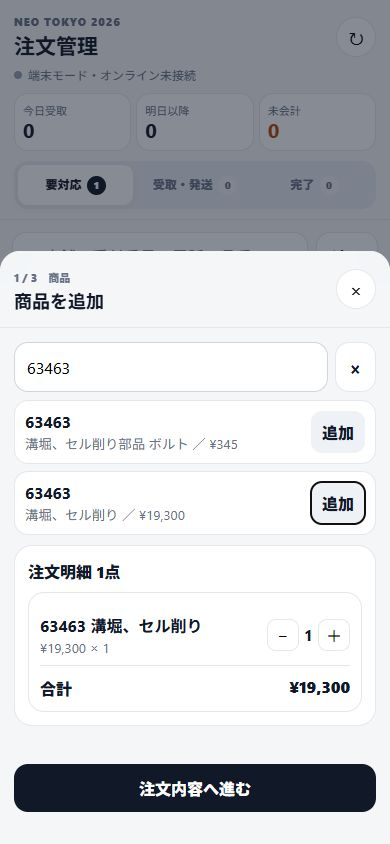
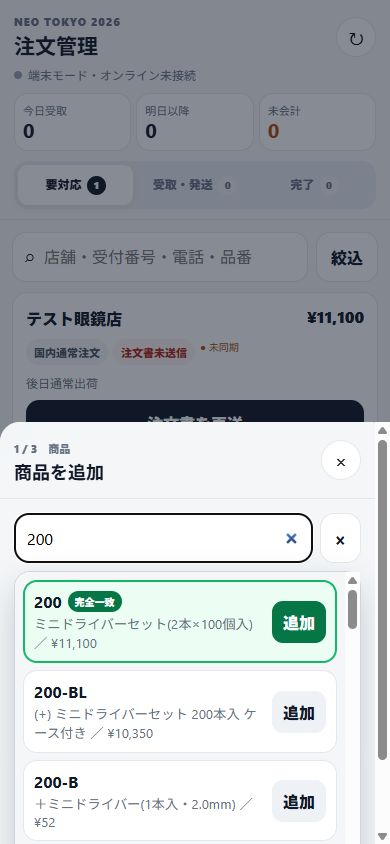
1

diff --git a/exhibition_order_production_preview.html b/exhibition_order_production_preview.html
@@ -14,8 +14,8 @@
 main{padding:12px}.toolbar{display:flex;gap:8px}.searchWrap{flex:1;display:flex;align-items:center;gap:8px;background:#fff;border:1px solid var(--line);border-radius:14px;padding:0 12px}.searchWrap input{border:0;outline:0;min-width:0;width:100%;height:48px;background:transparent}.secondary,.primary,.dangerBtn{border:0;border-radius:14px;min-height:48px;padding:0 14px;font-weight:900}.primary{background:var(--accent);color:#fff}.secondary{background:#fff;color:var(--ink);border:1px solid var(--line)}.dangerBtn{background:var(--dangerSoft);color:var(--danger);border:1px solid #fecdca}.compact{min-height:48px}.activeFilter{margin-top:8px;display:flex;gap:7px;align-items:center;color:var(--muted);font-size:12px}.activeFilter button{border:0;background:#fff;border-radius:99px;padding:6px 9px}.orders{display:grid;gap:9px;margin-top:10px}.empty{padding:62px 16px;text-align:center;color:var(--muted)}
 .orderCard{background:#fff;border:1px solid var(--line);border-radius:17px;padding:13px}.orderTop{display:flex;justify-content:space-between;gap:8px}.receiptNo{font-size:12px;font-weight:900;color:var(--accent)}.store{font-size:16px;font-weight:950}.amount{font-weight:950;white-space:nowrap}.chips{display:flex;flex-wrap:wrap;gap:5px;margin:9px 0}.chip{display:inline-flex;align-items:center;border-radius:99px;background:#f2f4f7;padding:5px 8px;font-size:11px;font-weight:850;color:#475467}.chip.ok{background:var(--okSoft);color:var(--ok)}.chip.warn{background:var(--warnSoft);color:var(--warn)}.chip.danger{background:var(--dangerSoft);color:var(--danger)}.cardNote{font-size:12px;color:var(--muted);margin-bottom:9px}.cardAction{width:100%;border:0;min-height:46px;border-radius:13px;background:#111827;color:#fff;font-weight:900}.cardAction.soft{background:#eef1f5;color:#111827}.syncBadge{font-size:10px;color:var(--warn)}.detailLink{display:block;margin:8px 0 0 auto}
 .newOrderBtn{position:fixed;z-index:25;left:max(14px,calc((100vw - 760px)/2 + 14px));right:max(14px,calc((100vw - 760px)/2 + 14px));bottom:max(14px,env(safe-area-inset-bottom));height:58px;border:0;border-radius:18px;background:#111827;color:#fff;font-weight:950;font-size:16px;box-shadow:0 12px 30px rgba(17,24,39,.24)}
-.sheet{position:fixed;inset:0;z-index:50;background:rgba(16,24,40,.5);display:flex;align-items:flex-end;justify-content:center}.sheetPanel{width:min(760px,100%);max-height:96vh;overflow:auto;background:var(--bg);border-radius:24px 24px 0 0;padding-bottom:calc(18px + env(safe-area-inset-bottom))}.sheetHead{position:sticky;top:0;z-index:4;background:rgba(244,246,248,.96);backdrop-filter:blur(12px);display:flex;justify-content:space-between;align-items:center;padding:14px;border-bottom:1px solid var(--line)}.sheetHead small{font-size:11px;color:var(--muted);font-weight:850}.sheetHead h2{font-size:18px;margin:1px 0 0}.step{padding:14px}.stepIntro{margin:0 0 12px;color:var(--muted);font-size:13px}.section{background:#fff;border:1px solid var(--line);border-radius:18px;padding:13px;margin-bottom:10px}.sectionTitle{font-weight:950;margin-bottom:9px}.field{margin-bottom:11px}.field:last-child{margin-bottom:0}.field label{display:block;font-size:12px;font-weight:900;margin:0 0 5px}.field input,.field select,.field textarea{width:100%;min-height:48px;background:#fff;border:1px solid #d0d5dd;border-radius:13px;padding:11px 12px;outline:0}.field textarea{min-height:72px;resize:vertical}.field input:focus,.field select:focus,.field textarea:focus{border-color:#667085;box-shadow:0 0 0 3px rgba(17,24,39,.07)}.two{display:grid;grid-template-columns:1fr 1fr;gap:8px}.choiceGrid{display:grid;grid-template-columns:1fr 1fr;gap:8px}.choice{min-height:80px;border:1px solid var(--line);border-radius:15px;background:#fff;padding:13px;text-align:left;color:var(--ink)}.choice b{display:block;margin-bottom:3px}.choice small{color:var(--muted);font-size:11px;line-height:1.4}.choice.on{border:2px solid #111827;padding:12px;background:#f8fafc}.choice.full{grid-column:1/-1}.seg{display:grid;grid-template-columns:repeat(2,1fr);gap:5px;padding:4px;border-radius:13px;background:#eef1f5}.seg button{border:0;background:transparent;min-height:42px;border-radius:10px;font-weight:850;color:var(--muted)}.seg button.on{background:#fff;color:#111827;box-shadow:0 1px 5px rgba(16,24,40,.06)}
-.productSearch{position:sticky;top:70px;z-index:2;background:var(--bg);padding-bottom:8px}.productSearchRow{display:flex;gap:7px}.productSearchRow input{flex:1;min-width:0;height:50px;border:1px solid #d0d5dd;border-radius:14px;padding:0 12px}.productResults{display:grid;gap:7px;max-height:44vh;overflow:auto}.productRow{display:grid;grid-template-columns:1fr auto;gap:8px;align-items:center;background:#fff;border:1px solid var(--line);border-radius:14px;padding:10px}.productRow b{display:block}.productRow small{display:block;color:var(--muted);margin-top:2px}.productRow.unavailable{background:#fafafa}.productRow.unavailable small{color:var(--warn);font-weight:800}.addBtn{border:0;border-radius:11px;background:#eef1f5;color:#111827;padding:9px 11px;font-weight:900}.cart{background:#fff;border:1px solid var(--line);border-radius:16px;padding:11px}.cartLine{display:grid;grid-template-columns:1fr auto;gap:8px;padding:9px 0;border-bottom:1px solid var(--line)}.cartLine:last-child{border-bottom:0}.cartLine small{display:block;color:var(--muted);margin-top:2px}.qty{display:flex;align-items:center;gap:5px}.qty button{width:32px;height:32px;border:1px solid var(--line);background:#fff;border-radius:9px}.totalRow{display:flex;justify-content:space-between;font-weight:950;padding-top:10px}.stickyActions{position:sticky;bottom:0;display:grid;grid-template-columns:1fr 1.6fr;gap:8px;padding:14px;background:linear-gradient(to top,var(--bg) 78%,rgba(244,246,248,0))}.stickyActions.one{grid-template-columns:1fr}.underActions{padding:0 14px 14px}.underActions button{width:100%}.quickDates{display:grid;grid-template-columns:repeat(3,1fr);gap:6px;margin-bottom:7px}.quickDates button{min-height:42px;border:1px solid var(--line);border-radius:11px;background:#fff;font-weight:850}.quickDates button.on{background:#111827;color:#fff}.errorBox{margin:10px 14px 0;padding:10px 12px;border-radius:12px;background:var(--dangerSoft);color:var(--danger);font-size:12px;font-weight:850}.hintBox{padding:10px 11px;border-radius:12px;background:#f8fafc;color:var(--muted);font-size:12px;line-height:1.5}.warnHint{background:var(--warnSoft);color:var(--warn);font-weight:800}.sendHint{background:var(--okSoft);color:var(--ok)}.topGap{margin-top:10px}.fullButton{width:100%;margin-bottom:8px}.success{text-align:center;padding:26px 14px}.successMark{width:60px;height:60px;border-radius:50%;display:grid;place-items:center;margin:0 auto 11px;background:var(--okSoft);color:var(--ok);font-size:30px}.successMark.pending{background:var(--warnSoft);color:var(--warn)}.success h3{margin:0 0 5px}.summary{background:#fff;border:1px solid var(--line);border-radius:16px;text-align:left;padding:12px;margin-top:14px}.summaryRow{display:flex;justify-content:space-between;gap:10px;padding:7px 0;border-bottom:1px solid var(--line);font-size:13px}.summaryRow:last-child{border-bottom:0}.summaryRow span{color:var(--muted)}.summaryRow.total{font-size:15px}.multiline{white-space:pre-wrap;text-align:right}.statusSent{color:var(--ok)}.statusPending{color:var(--danger)}
+.sheet{position:fixed;inset:0;z-index:50;background:rgba(16,24,40,.5);display:flex;align-items:flex-end;justify-content:center}.sheetPanel{width:min(760px,100%);max-height:96vh;overflow:auto;scrollbar-gutter:stable;background:var(--bg);border-radius:24px 24px 0 0;padding-bottom:calc(18px + env(safe-area-inset-bottom))}.sheetHead{position:sticky;top:0;z-index:4;background:rgba(244,246,248,.96);backdrop-filter:blur(12px);display:flex;justify-content:space-between;align-items:center;padding:14px;border-bottom:1px solid var(--line)}.sheetHead small{font-size:11px;color:var(--muted);font-weight:850}.sheetHead h2{font-size:18px;margin:1px 0 0}.step{padding:14px}.stepIntro{margin:0 0 12px;color:var(--muted);font-size:13px}.section{background:#fff;border:1px solid var(--line);border-radius:18px;padding:13px;margin-bottom:10px}.sectionTitle{font-weight:950;margin-bottom:9px}.field{margin-bottom:11px}.field:last-child{margin-bottom:0}.field label{display:block;font-size:12px;font-weight:900;margin:0 0 5px}.field input,.field select,.field textarea{width:100%;min-height:48px;background:#fff;border:1px solid #d0d5dd;border-radius:13px;padding:11px 12px;outline:0}.field textarea{min-height:72px;resize:vertical}.field input:focus,.field select:focus,.field textarea:focus{border-color:#667085;box-shadow:0 0 0 3px rgba(17,24,39,.07)}.two{display:grid;grid-template-columns:1fr 1fr;gap:8px}.choiceGrid{display:grid;grid-template-columns:1fr 1fr;gap:8px}.choice{min-height:80px;border:1px solid var(--line);border-radius:15px;background:#fff;padding:13px;text-align:left;color:var(--ink)}.choice b{display:block;margin-bottom:3px}.choice small{color:var(--muted);font-size:11px;line-height:1.4}.choice.on{border:2px solid #111827;padding:12px;background:#f8fafc}.choice.full{grid-column:1/-1}.seg{display:grid;grid-template-columns:repeat(2,1fr);gap:5px;padding:4px;border-radius:13px;background:#eef1f5}.seg button{border:0;background:transparent;min-height:42px;border-radius:10px;font-weight:850;color:var(--muted)}.seg button.on{background:#fff;color:#111827;box-shadow:0 1px 5px rgba(16,24,40,.06)}
+.productSearch{position:sticky;top:70px;z-index:8;background:var(--bg);padding-bottom:8px}.productSearchRow{display:flex;gap:7px}.productSearchRow input{flex:1;min-width:0;height:50px;border:1px solid #d0d5dd;border-radius:14px;padding:0 12px}.productResults{display:none;position:absolute;top:58px;left:0;right:0;gap:7px;max-height:min(44vh,360px);overflow:auto;background:var(--bg);border:1px solid #d0d5dd;border-radius:16px;padding:8px;box-shadow:0 16px 34px rgba(16,24,40,.2);overscroll-behavior:contain}.productResults.open{display:grid}.productResults .empty{background:#fff;border-radius:12px;padding:24px 12px}.productCartSection{margin-top:2px}.productRow{display:grid;grid-template-columns:1fr auto;gap:8px;align-items:center;background:#fff;border:1px solid var(--line);border-radius:14px;padding:10px}.productRow b{display:block}.productCodeLine{display:flex;align-items:center;flex-wrap:wrap;gap:6px}.matchBadge{display:inline-flex;align-items:center;min-height:21px;padding:2px 7px;border-radius:99px;background:#067647;color:#fff;font-size:10px;font-weight:950;line-height:1}.productRow small{display:block;color:var(--muted);margin-top:2px}.productRow.exact{background:#ecfdf3;border:2px solid #12b76a;padding:9px}.productRow.exact .addBtn{background:#067647;color:#fff}.productRow.unavailable{background:#fafafa}.productRow.unavailable small{color:var(--warn);font-weight:800}.addBtn{border:0;border-radius:11px;background:#eef1f5;color:#111827;padding:9px 11px;font-weight:900}.cart{background:#fff;border:1px solid var(--line);border-radius:16px;padding:11px}.cartLine{display:grid;grid-template-columns:1fr auto;gap:8px;padding:9px 0;border-bottom:1px solid var(--line)}.cartLine:last-child{border-bottom:0}.cartLine small{display:block;color:var(--muted);margin-top:2px}.qty{display:flex;align-items:center;gap:5px}.qty button{width:32px;height:32px;border:1px solid var(--line);background:#fff;border-radius:9px}.totalRow{display:flex;justify-content:space-between;font-weight:950;padding-top:10px}.stickyActions{position:sticky;bottom:0;display:grid;grid-template-columns:1fr 1.6fr;gap:8px;padding:14px;background:linear-gradient(to top,var(--bg) 78%,rgba(244,246,248,0))}.stickyActions.one{grid-template-columns:1fr}.underActions{padding:0 14px 14px}.underActions button{width:100%}.quickDates{display:grid;grid-template-columns:repeat(3,1fr);gap:6px;margin-bottom:7px}.quickDates button{min-height:42px;border:1px solid var(--line);border-radius:11px;background:#fff;font-weight:850}.quickDates button.on{background:#111827;color:#fff}.errorBox{margin:10px 14px 0;padding:10px 12px;border-radius:12px;background:var(--dangerSoft);color:var(--danger);font-size:12px;font-weight:850}.hintBox{padding:10px 11px;border-radius:12px;background:#f8fafc;color:var(--muted);font-size:12px;line-height:1.5}.warnHint{background:var(--warnSoft);color:var(--warn);font-weight:800}.sendHint{background:var(--okSoft);color:var(--ok)}.topGap{margin-top:10px}.fullButton{width:100%;margin-bottom:8px}.success{text-align:center;padding:26px 14px}.successMark{width:60px;height:60px;border-radius:50%;display:grid;place-items:center;margin:0 auto 11px;background:var(--okSoft);color:var(--ok);font-size:30px}.successMark.pending{background:var(--warnSoft);color:var(--warn)}.success h3{margin:0 0 5px}.summary{background:#fff;border:1px solid var(--line);border-radius:16px;text-align:left;padding:12px;margin-top:14px}.summaryRow{display:flex;justify-content:space-between;gap:10px;padding:7px 0;border-bottom:1px solid var(--line);font-size:13px}.summaryRow:last-child{border-bottom:0}.summaryRow span{color:var(--muted)}.summaryRow.total{font-size:15px}.multiline{white-space:pre-wrap;text-align:right}.statusSent{color:var(--ok)}.statusPending{color:var(--danger)}
 .login{min-height:100vh;display:grid;place-items:center;padding:18px}.loginBox{width:min(390px,100%);background:#fff;border:1px solid var(--line);border-radius:22px;padding:22px;box-shadow:var(--shadow)}.brandMark{width:44px;height:44px;border-radius:13px;display:grid;place-items:center;background:#111827;color:#fff;font-weight:950}.loginBox h1{margin-top:13px}.loginBox p{color:var(--muted);margin-top:3px}.loginBox label{display:block;font-size:12px;font-weight:850;margin-top:12px}.loginBox input{width:100%;height:48px;border:1px solid #d0d5dd;border-radius:13px;padding:0 12px;margin-top:5px}.loginBox button{width:100%;margin-top:10px}.errorText{color:var(--danger);font-size:12px;margin-top:9px}.toast{position:fixed;z-index:100;left:50%;bottom:88px;transform:translate(-50%,18px);background:#111827;color:#fff;border-radius:99px;padding:9px 13px;font-size:12px;font-weight:850;opacity:0;pointer-events:none;transition:.18s}.toast.show{opacity:1;transform:translate(-50%,0)}
 .printArea{display:none}.printSheet{font-family:"Noto Sans JP",sans-serif;color:#111}.printSheet h2{margin:0 0 3px}.printTitle{display:flex;justify-content:space-between;gap:20px;align-items:flex-start;margin-bottom:16px}.printTitle small{color:#555}.printNo{text-align:right}.printMeta{display:grid;grid-template-columns:1fr 1fr;gap:8px;margin-bottom:14px}.printMeta>div{border-bottom:1px solid #bbb;padding:5px 0}.printItems{width:100%;border-collapse:collapse}.printItems th,.printItems td{border:1px solid #888;padding:7px;text-align:left}.printItems th:nth-child(2),.printItems td:nth-child(2),.printItems th:nth-child(3),.printItems td:nth-child(3),.printItems th:nth-child(4),.printItems td:nth-child(4){text-align:right}.printNotes{margin-top:14px;border:1px solid #aaa;padding:10px;white-space:pre-wrap}.printFoot{margin-top:16px;font-size:11px;color:#555}
 @media(max-width:430px){.choiceGrid,.two{grid-template-columns:1fr}.choice.full{grid-column:auto}.sheetPanel{border-radius:20px 20px 0 0}.metrics{gap:5px}.metric{padding:8px}.newOrderBtn{left:12px;right:12px}.orderCard{border-radius:15px}.stickyActions{grid-template-columns:1fr 1.35fr}}
@@ -422,17 +422,18 @@ function clearError(){$('sheetError').classList.add('hidden');$('sheetError').te
 function freshDraft(){return{stage:'products',type:null,handoff:null,customerRegion:'domestic',items:[],store:'',phone:'',customer:'',account:'',staff:state.staff?.display_name||'',paymentMethod:PAYMENT.CREDIT,paid:false,delivered:false,shipped:false,prepared:PREP.NONE,pickupDate:dateOffset(1),notes:''}}
 function startOrder(){state.draft=freshDraft();openSheet('新しい注文','1 / 3');renderDraft()}
 function renderDraft(){clearError();if(!state.draft)return;const d=state.draft;if(d.stage==='products')renderProductStep(d);else if(d.stage==='type')renderTypeStep(d);else if(d.stage==='info')renderInfoStep(d);else if(d.stage==='success')renderSuccess(d)}
-function renderProductStep(d){$('stepLabel').textContent='1 / 3　商品';$('sheetTitle').textContent='商品を追加';$('sheetBody').innerHTML=`<div class="step"><div class="productSearch"><div class="productSearchRow"><input id="productQ" type="search" inputmode="search" placeholder="品番・商品名"><button id="clearPQ" class="secondary">×</button></div></div><div id="productResults" class="productResults"><div class="empty">品番・商品名を入力してください。</div></div><div class="section" style="margin-top:10px"><div class="sectionTitle">注文明細 <span id="cartCount">${d.items.reduce((s,i)=>s+i.qty,0)}点</span></div><div id="cartLines" class="cart"></div></div></div><div class="stickyActions one"><button id="toType" class="primary">注文内容へ進む</button></div>`;const q=$('productQ');q.oninput=()=>renderProductResults(d,q.value);$('clearPQ').onclick=()=>{q.value='';renderProductResults(d,'')};$('toType').onclick=()=>{if(!d.items.length)return showError('商品を1点以上追加してください。');d.stage='type';renderDraft()};renderCart(d)}
+function renderProductStep(d){$('stepLabel').textContent='1 / 3　商品';$('sheetTitle').textContent='商品を追加';$('sheetBody').innerHTML=`<div class="step"><div class="productSearch"><div class="productSearchRow"><input id="productQ" type="search" inputmode="search" placeholder="品番・商品名" autocomplete="off"><button id="clearPQ" class="secondary" aria-label="検索をクリア">×</button></div><div id="productResults" class="productResults" role="listbox"></div></div><div class="section productCartSection"><div class="sectionTitle">注文明細 <span id="cartCount">${d.items.reduce((s,i)=>s+i.qty,0)}点</span></div><div id="cartLines" class="cart"></div></div></div><div class="stickyActions one"><button id="toType" class="primary">注文内容へ進む</button></div>`;const q=$('productQ');q.oninput=()=>renderProductResults(d,q.value);$('clearPQ').onclick=()=>{q.value='';renderProductResults(d,'');q.focus()};$('toType').onclick=()=>{if(!d.items.length)return showError('商品を1点以上追加してください。');d.stage='type';renderDraft()};renderCart(d)}
 function renderProductResults(d,query){
   const q=String(query||'').trim().toLowerCase(),wrap=$('productResults');
-  if(!q){wrap.innerHTML='<div class="empty">品番・商品名を入力してください。</div>';return}
+  if(!q){wrap.innerHTML='';wrap.classList.remove('open');return}
   const list=state.products.map((product,index)=>({product,index,rank:productRank(product,q)})).filter(result=>result.rank<9).sort((a,b)=>a.rank-b.rank||a.index-b.index).slice(0,35);
-  wrap.innerHTML=list.length?list.map(({product})=>`<div class="productRow ${product.orderable?'':'unavailable'}"><div><b>${esc(product.code)}</b><small>${esc(product.name)} ／ ${product.orderable?yen(product.price):'価格未定・注文不可'}</small></div><button class="addBtn" data-product-id="${esc(product.productId)}" ${product.orderable?'':'disabled'}>${product.orderable?'追加':'追加不可'}</button></div>`).join(''):'<div class="empty">該当商品がありません。</div>';
+  wrap.classList.add('open');
+  wrap.innerHTML=list.length?list.map(({product,rank})=>`<div class="productRow ${rank===0?'exact':''} ${product.orderable?'':'unavailable'}" role="option"><div><div class="productCodeLine"><b>${esc(product.code)}</b>${rank===0?'<span class="matchBadge">完全一致</span>':''}</div><small>${esc(product.name)} ／ ${product.orderable?yen(product.price):'価格未定・注文不可'}</small></div><button class="addBtn" data-product-id="${esc(product.productId)}" ${product.orderable?'':'disabled'}>${product.orderable?'追加':'追加不可'}</button></div>`).join(''):'<div class="empty">該当商品がありません。</div>';
   wrap.querySelectorAll('[data-product-id]').forEach(button=>button.onclick=()=>{
     const product=state.products.find(item=>item.productId===button.dataset.productId);if(!product?.orderable)return;
     const existing=d.items.find(item=>item.productId===product.productId);
     if(existing)existing.qty++;else d.items.push({...product,lineId:`line-${Date.now().toString(36)}-${Math.random().toString(36).slice(2,6)}`,qty:1});
-    renderCart(d);toast(`${product.code} を追加`);
+    renderCart(d);$('productQ').value='';renderProductResults(d,'');toast(`${product.code} を追加`);
   });
 }
 function productRank(p,q){const c=String(p.code).toLowerCase(),n=String(p.name).toLowerCase();const qn=q.replace(/-/g,''),cn=c.replace(/-/g,'');if(c===q||cn===qn)return 0;if(c.startsWith(q)||cn.startsWith(qn))return 1;if(c.includes(q)||cn.includes(qn))return 2;if(n.includes(q))return 3;return 9}

diff --git a/styles.css b/styles.css
@@ -6,8 +6,8 @@
 main{padding:12px}.toolbar{display:flex;gap:8px}.searchWrap{flex:1;display:flex;align-items:center;gap:8px;background:#fff;border:1px solid var(--line);border-radius:14px;padding:0 12px}.searchWrap input{border:0;outline:0;min-width:0;width:100%;height:48px;background:transparent}.secondary,.primary,.dangerBtn{border:0;border-radius:14px;min-height:48px;padding:0 14px;font-weight:900}.primary{background:var(--accent);color:#fff}.secondary{background:#fff;color:var(--ink);border:1px solid var(--line)}.dangerBtn{background:var(--dangerSoft);color:var(--danger);border:1px solid #fecdca}.compact{min-height:48px}.activeFilter{margin-top:8px;display:flex;gap:7px;align-items:center;color:var(--muted);font-size:12px}.activeFilter button{border:0;background:#fff;border-radius:99px;padding:6px 9px}.orders{display:grid;gap:9px;margin-top:10px}.empty{padding:62px 16px;text-align:center;color:var(--muted)}
 .orderCard{background:#fff;border:1px solid var(--line);border-radius:17px;padding:13px}.orderTop{display:flex;justify-content:space-between;gap:8px}.receiptNo{font-size:12px;font-weight:900;color:var(--accent)}.store{font-size:16px;font-weight:950}.amount{font-weight:950;white-space:nowrap}.chips{display:flex;flex-wrap:wrap;gap:5px;margin:9px 0}.chip{display:inline-flex;align-items:center;border-radius:99px;background:#f2f4f7;padding:5px 8px;font-size:11px;font-weight:850;color:#475467}.chip.ok{background:var(--okSoft);color:var(--ok)}.chip.warn{background:var(--warnSoft);color:var(--warn)}.chip.danger{background:var(--dangerSoft);color:var(--danger)}.cardNote{font-size:12px;color:var(--muted);margin-bottom:9px}.cardAction{width:100%;border:0;min-height:46px;border-radius:13px;background:#111827;color:#fff;font-weight:900}.cardAction.soft{background:#eef1f5;color:#111827}.syncBadge{font-size:10px;color:var(--warn)}.detailLink{display:block;margin:8px 0 0 auto}
 .newOrderBtn{position:fixed;z-index:25;left:max(14px,calc((100vw - 760px)/2 + 14px));right:max(14px,calc((100vw - 760px)/2 + 14px));bottom:max(14px,env(safe-area-inset-bottom));height:58px;border:0;border-radius:18px;background:#111827;color:#fff;font-weight:950;font-size:16px;box-shadow:0 12px 30px rgba(17,24,39,.24)}
-.sheet{position:fixed;inset:0;z-index:50;background:rgba(16,24,40,.5);display:flex;align-items:flex-end;justify-content:center}.sheetPanel{width:min(760px,100%);max-height:96vh;overflow:auto;background:var(--bg);border-radius:24px 24px 0 0;padding-bottom:calc(18px + env(safe-area-inset-bottom))}.sheetHead{position:sticky;top:0;z-index:4;background:rgba(244,246,248,.96);backdrop-filter:blur(12px);display:flex;justify-content:space-between;align-items:center;padding:14px;border-bottom:1px solid var(--line)}.sheetHead small{font-size:11px;color:var(--muted);font-weight:850}.sheetHead h2{font-size:18px;margin:1px 0 0}.step{padding:14px}.stepIntro{margin:0 0 12px;color:var(--muted);font-size:13px}.section{background:#fff;border:1px solid var(--line);border-radius:18px;padding:13px;margin-bottom:10px}.sectionTitle{font-weight:950;margin-bottom:9px}.field{margin-bottom:11px}.field:last-child{margin-bottom:0}.field label{display:block;font-size:12px;font-weight:900;margin:0 0 5px}.field input,.field select,.field textarea{width:100%;min-height:48px;background:#fff;border:1px solid #d0d5dd;border-radius:13px;padding:11px 12px;outline:0}.field textarea{min-height:72px;resize:vertical}.field input:focus,.field select:focus,.field textarea:focus{border-color:#667085;box-shadow:0 0 0 3px rgba(17,24,39,.07)}.two{display:grid;grid-template-columns:1fr 1fr;gap:8px}.choiceGrid{display:grid;grid-template-columns:1fr 1fr;gap:8px}.choice{min-height:80px;border:1px solid var(--line);border-radius:15px;background:#fff;padding:13px;text-align:left;color:var(--ink)}.choice b{display:block;margin-bottom:3px}.choice small{color:var(--muted);font-size:11px;line-height:1.4}.choice.on{border:2px solid #111827;padding:12px;background:#f8fafc}.choice.full{grid-column:1/-1}.seg{display:grid;grid-template-columns:repeat(2,1fr);gap:5px;padding:4px;border-radius:13px;background:#eef1f5}.seg button{border:0;background:transparent;min-height:42px;border-radius:10px;font-weight:850;color:var(--muted)}.seg button.on{background:#fff;color:#111827;box-shadow:0 1px 5px rgba(16,24,40,.06)}
-.productSearch{position:sticky;top:70px;z-index:2;background:var(--bg);padding-bottom:8px}.productSearchRow{display:flex;gap:7px}.productSearchRow input{flex:1;min-width:0;height:50px;border:1px solid #d0d5dd;border-radius:14px;padding:0 12px}.productResults{display:grid;gap:7px;max-height:44vh;overflow:auto}.productRow{display:grid;grid-template-columns:1fr auto;gap:8px;align-items:center;background:#fff;border:1px solid var(--line);border-radius:14px;padding:10px}.productRow b{display:block}.productRow small{display:block;color:var(--muted);margin-top:2px}.productRow.unavailable{background:#fafafa}.productRow.unavailable small{color:var(--warn);font-weight:800}.addBtn{border:0;border-radius:11px;background:#eef1f5;color:#111827;padding:9px 11px;font-weight:900}.cart{background:#fff;border:1px solid var(--line);border-radius:16px;padding:11px}.cartLine{display:grid;grid-template-columns:1fr auto;gap:8px;padding:9px 0;border-bottom:1px solid var(--line)}.cartLine:last-child{border-bottom:0}.cartLine small{display:block;color:var(--muted);margin-top:2px}.qty{display:flex;align-items:center;gap:5px}.qty button{width:32px;height:32px;border:1px solid var(--line);background:#fff;border-radius:9px}.totalRow{display:flex;justify-content:space-between;font-weight:950;padding-top:10px}.stickyActions{position:sticky;bottom:0;display:grid;grid-template-columns:1fr 1.6fr;gap:8px;padding:14px;background:linear-gradient(to top,var(--bg) 78%,rgba(244,246,248,0))}.stickyActions.one{grid-template-columns:1fr}.underActions{padding:0 14px 14px}.underActions button{width:100%}.quickDates{display:grid;grid-template-columns:repeat(3,1fr);gap:6px;margin-bottom:7px}.quickDates button{min-height:42px;border:1px solid var(--line);border-radius:11px;background:#fff;font-weight:850}.quickDates button.on{background:#111827;color:#fff}.errorBox{margin:10px 14px 0;padding:10px 12px;border-radius:12px;background:var(--dangerSoft);color:var(--danger);font-size:12px;font-weight:850}.hintBox{padding:10px 11px;border-radius:12px;background:#f8fafc;color:var(--muted);font-size:12px;line-height:1.5}.warnHint{background:var(--warnSoft);color:var(--warn);font-weight:800}.sendHint{background:var(--okSoft);color:var(--ok)}.topGap{margin-top:10px}.fullButton{width:100%;margin-bottom:8px}.success{text-align:center;padding:26px 14px}.successMark{width:60px;height:60px;border-radius:50%;display:grid;place-items:center;margin:0 auto 11px;background:var(--okSoft);color:var(--ok);font-size:30px}.successMark.pending{background:var(--warnSoft);color:var(--warn)}.success h3{margin:0 0 5px}.summary{background:#fff;border:1px solid var(--line);border-radius:16px;text-align:left;padding:12px;margin-top:14px}.summaryRow{display:flex;justify-content:space-between;gap:10px;padding:7px 0;border-bottom:1px solid var(--line);font-size:13px}.summaryRow:last-child{border-bottom:0}.summaryRow span{color:var(--muted)}.summaryRow.total{font-size:15px}.multiline{white-space:pre-wrap;text-align:right}.statusSent{color:var(--ok)}.statusPending{color:var(--danger)}
+.sheet{position:fixed;inset:0;z-index:50;background:rgba(16,24,40,.5);display:flex;align-items:flex-end;justify-content:center}.sheetPanel{width:min(760px,100%);max-height:96vh;overflow:auto;scrollbar-gutter:stable;background:var(--bg);border-radius:24px 24px 0 0;padding-bottom:calc(18px + env(safe-area-inset-bottom))}.sheetHead{position:sticky;top:0;z-index:4;background:rgba(244,246,248,.96);backdrop-filter:blur(12px);display:flex;justify-content:space-between;align-items:center;padding:14px;border-bottom:1px solid var(--line)}.sheetHead small{font-size:11px;color:var(--muted);font-weight:850}.sheetHead h2{font-size:18px;margin:1px 0 0}.step{padding:14px}.stepIntro{margin:0 0 12px;color:var(--muted);font-size:13px}.section{background:#fff;border:1px solid var(--line);border-radius:18px;padding:13px;margin-bottom:10px}.sectionTitle{font-weight:950;margin-bottom:9px}.field{margin-bottom:11px}.field:last-child{margin-bottom:0}.field label{display:block;font-size:12px;font-weight:900;margin:0 0 5px}.field input,.field select,.field textarea{width:100%;min-height:48px;background:#fff;border:1px solid #d0d5dd;border-radius:13px;padding:11px 12px;outline:0}.field textarea{min-height:72px;resize:vertical}.field input:focus,.field select:focus,.field textarea:focus{border-color:#667085;box-shadow:0 0 0 3px rgba(17,24,39,.07)}.two{display:grid;grid-template-columns:1fr 1fr;gap:8px}.choiceGrid{display:grid;grid-template-columns:1fr 1fr;gap:8px}.choice{min-height:80px;border:1px solid var(--line);border-radius:15px;background:#fff;padding:13px;text-align:left;color:var(--ink)}.choice b{display:block;margin-bottom:3px}.choice small{color:var(--muted);font-size:11px;line-height:1.4}.choice.on{border:2px solid #111827;padding:12px;background:#f8fafc}.choice.full{grid-column:1/-1}.seg{display:grid;grid-template-columns:repeat(2,1fr);gap:5px;padding:4px;border-radius:13px;background:#eef1f5}.seg button{border:0;background:transparent;min-height:42px;border-radius:10px;font-weight:850;color:var(--muted)}.seg button.on{background:#fff;color:#111827;box-shadow:0 1px 5px rgba(16,24,40,.06)}
+.productSearch{position:sticky;top:70px;z-index:8;background:var(--bg);padding-bottom:8px}.productSearchRow{display:flex;gap:7px}.productSearchRow input{flex:1;min-width:0;height:50px;border:1px solid #d0d5dd;border-radius:14px;padding:0 12px}.productResults{display:none;position:absolute;top:58px;left:0;right:0;gap:7px;max-height:min(44vh,360px);overflow:auto;background:var(--bg);border:1px solid #d0d5dd;border-radius:16px;padding:8px;box-shadow:0 16px 34px rgba(16,24,40,.2);overscroll-behavior:contain}.productResults.open{display:grid}.productResults .empty{background:#fff;border-radius:12px;padding:24px 12px}.productCartSection{margin-top:2px}.productRow{display:grid;grid-template-columns:1fr auto;gap:8px;align-items:center;background:#fff;border:1px solid var(--line);border-radius:14px;padding:10px}.productRow b{display:block}.productCodeLine{display:flex;align-items:center;flex-wrap:wrap;gap:6px}.matchBadge{display:inline-flex;align-items:center;min-height:21px;padding:2px 7px;border-radius:99px;background:#067647;color:#fff;font-size:10px;font-weight:950;line-height:1}.productRow small{display:block;color:var(--muted);margin-top:2px}.productRow.exact{background:#ecfdf3;border:2px solid #12b76a;padding:9px}.productRow.exact .addBtn{background:#067647;color:#fff}.productRow.unavailable{background:#fafafa}.productRow.unavailable small{color:var(--warn);font-weight:800}.addBtn{border:0;border-radius:11px;background:#eef1f5;color:#111827;padding:9px 11px;font-weight:900}.cart{background:#fff;border:1px solid var(--line);border-radius:16px;padding:11px}.cartLine{display:grid;grid-template-columns:1fr auto;gap:8px;padding:9px 0;border-bottom:1px solid var(--line)}.cartLine:last-child{border-bottom:0}.cartLine small{display:block;color:var(--muted);margin-top:2px}.qty{display:flex;align-items:center;gap:5px}.qty button{width:32px;height:32px;border:1px solid var(--line);background:#fff;border-radius:9px}.totalRow{display:flex;justify-content:space-between;font-weight:950;padding-top:10px}.stickyActions{position:sticky;bottom:0;display:grid;grid-template-columns:1fr 1.6fr;gap:8px;padding:14px;background:linear-gradient(to top,var(--bg) 78%,rgba(244,246,248,0))}.stickyActions.one{grid-template-columns:1fr}.underActions{padding:0 14px 14px}.underActions button{width:100%}.quickDates{display:grid;grid-template-columns:repeat(3,1fr);gap:6px;margin-bottom:7px}.quickDates button{min-height:42px;border:1px solid var(--line);border-radius:11px;background:#fff;font-weight:850}.quickDates button.on{background:#111827;color:#fff}.errorBox{margin:10px 14px 0;padding:10px 12px;border-radius:12px;background:var(--dangerSoft);color:var(--danger);font-size:12px;font-weight:850}.hintBox{padding:10px 11px;border-radius:12px;background:#f8fafc;color:var(--muted);font-size:12px;line-height:1.5}.warnHint{background:var(--warnSoft);color:var(--warn);font-weight:800}.sendHint{background:var(--okSoft);color:var(--ok)}.topGap{margin-top:10px}.fullButton{width:100%;margin-bottom:8px}.success{text-align:center;padding:26px 14px}.successMark{width:60px;height:60px;border-radius:50%;display:grid;place-items:center;margin:0 auto 11px;background:var(--okSoft);color:var(--ok);font-size:30px}.successMark.pending{background:var(--warnSoft);color:var(--warn)}.success h3{margin:0 0 5px}.summary{background:#fff;border:1px solid var(--line);border-radius:16px;text-align:left;padding:12px;margin-top:14px}.summaryRow{display:flex;justify-content:space-between;gap:10px;padding:7px 0;border-bottom:1px solid var(--line);font-size:13px}.summaryRow:last-child{border-bottom:0}.summaryRow span{color:var(--muted)}.summaryRow.total{font-size:15px}.multiline{white-space:pre-wrap;text-align:right}.statusSent{color:var(--ok)}.statusPending{color:var(--danger)}
 .login{min-height:100vh;display:grid;place-items:center;padding:18px}.loginBox{width:min(390px,100%);background:#fff;border:1px solid var(--line);border-radius:22px;padding:22px;box-shadow:var(--shadow)}.brandMark{width:44px;height:44px;border-radius:13px;display:grid;place-items:center;background:#111827;color:#fff;font-weight:950}.loginBox h1{margin-top:13px}.loginBox p{color:var(--muted);margin-top:3px}.loginBox label{display:block;font-size:12px;font-weight:850;margin-top:12px}.loginBox input{width:100%;height:48px;border:1px solid #d0d5dd;border-radius:13px;padding:0 12px;margin-top:5px}.loginBox button{width:100%;margin-top:10px}.errorText{color:var(--danger);font-size:12px;margin-top:9px}.toast{position:fixed;z-index:100;left:50%;bottom:88px;transform:translate(-50%,18px);background:#111827;color:#fff;border-radius:99px;padding:9px 13px;font-size:12px;font-weight:850;opacity:0;pointer-events:none;transition:.18s}.toast.show{opacity:1;transform:translate(-50%,0)}
 .printArea{display:none}.printSheet{font-family:"Noto Sans JP",sans-serif;color:#111}.printSheet h2{margin:0 0 3px}.printTitle{display:flex;justify-content:space-between;gap:20px;align-items:flex-start;margin-bottom:16px}.printTitle small{color:#555}.printNo{text-align:right}.printMeta{display:grid;grid-template-columns:1fr 1fr;gap:8px;margin-bottom:14px}.printMeta>div{border-bottom:1px solid #bbb;padding:5px 0}.printItems{width:100%;border-collapse:collapse}.printItems th,.printItems td{border:1px solid #888;padding:7px;text-align:left}.printItems th:nth-child(2),.printItems td:nth-child(2),.printItems th:nth-child(3),.printItems td:nth-child(3),.printItems th:nth-child(4),.printItems td:nth-child(4){text-align:right}.printNotes{margin-top:14px;border:1px solid #aaa;padding:10px;white-space:pre-wrap}.printFoot{margin-top:16px;font-size:11px;color:#555}
 @media(max-width:430px){.choiceGrid,.two{grid-template-columns:1fr}.choice.full{grid-column:auto}.sheetPanel{border-radius:20px 20px 0 0}.metrics{gap:5px}.metric{padding:8px}.newOrderBtn{left:12px;right:12px}.orderCard{border-radius:15px}.stickyActions{grid-template-columns:1fr 1.35fr}}

diff --git a/app.js b/app.js
@@ -207,17 +207,18 @@ function clearError(){$('sheetError').classList.add('hidden');$('sheetError').te
 function freshDraft(){return{stage:'products',type:null,handoff:null,customerRegion:'domestic',items:[],store:'',phone:'',customer:'',account:'',staff:state.staff?.display_name||'',paymentMethod:PAYMENT.CREDIT,paid:false,delivered:false,shipped:false,prepared:PREP.NONE,pickupDate:dateOffset(1),notes:''}}
 function startOrder(){state.draft=freshDraft();openSheet('新しい注文','1 / 3');renderDraft()}
 function renderDraft(){clearError();if(!state.draft)return;const d=state.draft;if(d.stage==='products')renderProductStep(d);else if(d.stage==='type')renderTypeStep(d);else if(d.stage==='info')renderInfoStep(d);else if(d.stage==='success')renderSuccess(d)}
-function renderProductStep(d){$('stepLabel').textContent='1 / 3　商品';$('sheetTitle').textContent='商品を追加';$('sheetBody').innerHTML=`<div class="step"><div class="productSearch"><div class="productSearchRow"><input id="productQ" type="search" inputmode="search" placeholder="品番・商品名"><button id="clearPQ" class="secondary">×</button></div></div><div id="productResults" class="productResults"><div class="empty">品番・商品名を入力してください。</div></div><div class="section" style="margin-top:10px"><div class="sectionTitle">注文明細 <span id="cartCount">${d.items.reduce((s,i)=>s+i.qty,0)}点</span></div><div id="cartLines" class="cart"></div></div></div><div class="stickyActions one"><button id="toType" class="primary">注文内容へ進む</button></div>`;const q=$('productQ');q.oninput=()=>renderProductResults(d,q.value);$('clearPQ').onclick=()=>{q.value='';renderProductResults(d,'')};$('toType').onclick=()=>{if(!d.items.length)return showError('商品を1点以上追加してください。');d.stage='type';renderDraft()};renderCart(d)}
+function renderProductStep(d){$('stepLabel').textContent='1 / 3　商品';$('sheetTitle').textContent='商品を追加';$('sheetBody').innerHTML=`<div class="step"><div class="productSearch"><div class="productSearchRow"><input id="productQ" type="search" inputmode="search" placeholder="品番・商品名" autocomplete="off"><button id="clearPQ" class="secondary" aria-label="検索をクリア">×</button></div><div id="productResults" class="productResults" role="listbox"></div></div><div class="section productCartSection"><div class="sectionTitle">注文明細 <span id="cartCount">${d.items.reduce((s,i)=>s+i.qty,0)}点</span></div><div id="cartLines" class="cart"></div></div></div><div class="stickyActions one"><button id="toType" class="primary">注文内容へ進む</button></div>`;const q=$('productQ');q.oninput=()=>renderProductResults(d,q.value);$('clearPQ').onclick=()=>{q.value='';renderProductResults(d,'');q.focus()};$('toType').onclick=()=>{if(!d.items.length)return showError('商品を1点以上追加してください。');d.stage='type';renderDraft()};renderCart(d)}
 function renderProductResults(d,query){
   const q=String(query||'').trim().toLowerCase(),wrap=$('productResults');
-  if(!q){wrap.innerHTML='<div class="empty">品番・商品名を入力してください。</div>';return}
+  if(!q){wrap.innerHTML='';wrap.classList.remove('open');return}
   const list=state.products.map((product,index)=>({product,index,rank:productRank(product,q)})).filter(result=>result.rank<9).sort((a,b)=>a.rank-b.rank||a.index-b.index).slice(0,35);
-  wrap.innerHTML=list.length?list.map(({product})=>`<div class="productRow ${product.orderable?'':'unavailable'}"><div><b>${esc(product.code)}</b><small>${esc(product.name)} ／ ${product.orderable?yen(product.price):'価格未定・注文不可'}</small></div><button class="addBtn" data-product-id="${esc(product.productId)}" ${product.orderable?'':'disabled'}>${product.orderable?'追加':'追加不可'}</button></div>`).join(''):'<div class="empty">該当商品がありません。</div>';
+  wrap.classList.add('open');
+  wrap.innerHTML=list.length?list.map(({product,rank})=>`<div class="productRow ${rank===0?'exact':''} ${product.orderable?'':'unavailable'}" role="option"><div><div class="productCodeLine"><b>${esc(product.code)}</b>${rank===0?'<span class="matchBadge">完全一致</span>':''}</div><small>${esc(product.name)} ／ ${product.orderable?yen(product.price):'価格未定・注文不可'}</small></div><button class="addBtn" data-product-id="${esc(product.productId)}" ${product.orderable?'':'disabled'}>${product.orderable?'追加':'追加不可'}</button></div>`).join(''):'<div class="empty">該当商品がありません。</div>';
   wrap.querySelectorAll('[data-product-id]').forEach(button=>button.onclick=()=>{
     const product=state.products.find(item=>item.productId===button.dataset.productId);if(!product?.orderable)return;
     const existing=d.items.find(item=>item.productId===product.productId);
     if(existing)existing.qty++;else d.items.push({...product,lineId:`line-${Date.now().toString(36)}-${Math.random().toString(36).slice(2,6)}`,qty:1});
-    renderCart(d);toast(`${product.code} を追加`);
+    renderCart(d);$('productQ').value='';renderProductResults(d,'');toast(`${product.code} を追加`);
   });
 }
 function productRank(p,q){const c=String(p.code).toLowerCase(),n=String(p.name).toLowerCase();const qn=q.replace(/-/g,''),cn=c.replace(/-/g,'');if(c===q||cn===qn)return 0;if(c.startsWith(q)||cn.startsWith(qn))return 1;if(c.includes(q)||cn.includes(qn))return 2;if(n.includes(q))return 3;return 9}

diff --git a/TEST_REPORT.md b/TEST_REPORT.md
@@ -21,6 +21,10 @@
 - 端末モードで管理画面を開始できる: PASS
 - 3,861件の商品マスターを読み込める: PASS
 - 品番 `200` の改定価格11,100円を表示: PASS
+- 品番完全一致を緑の背景・枠・「完全一致」ラベルで強調表示: PASS
+- 検索候補を検索欄直下の独立スクロール式ドロップダウンで表示: PASS
+- 候補表示前後で検索欄・注文明細の位置差0px: PASS
+- 商品追加後に検索語と候補ドロップダウンを自動クリア: PASS
 - 重複コード `63463` の2商品を検索結果へ別々に表示: PASS
 - `63463` の2件目（19,300円）を正しくカートへ追加: PASS
 - 価格未定 `141-802` の追加ボタンが無効: PASS
